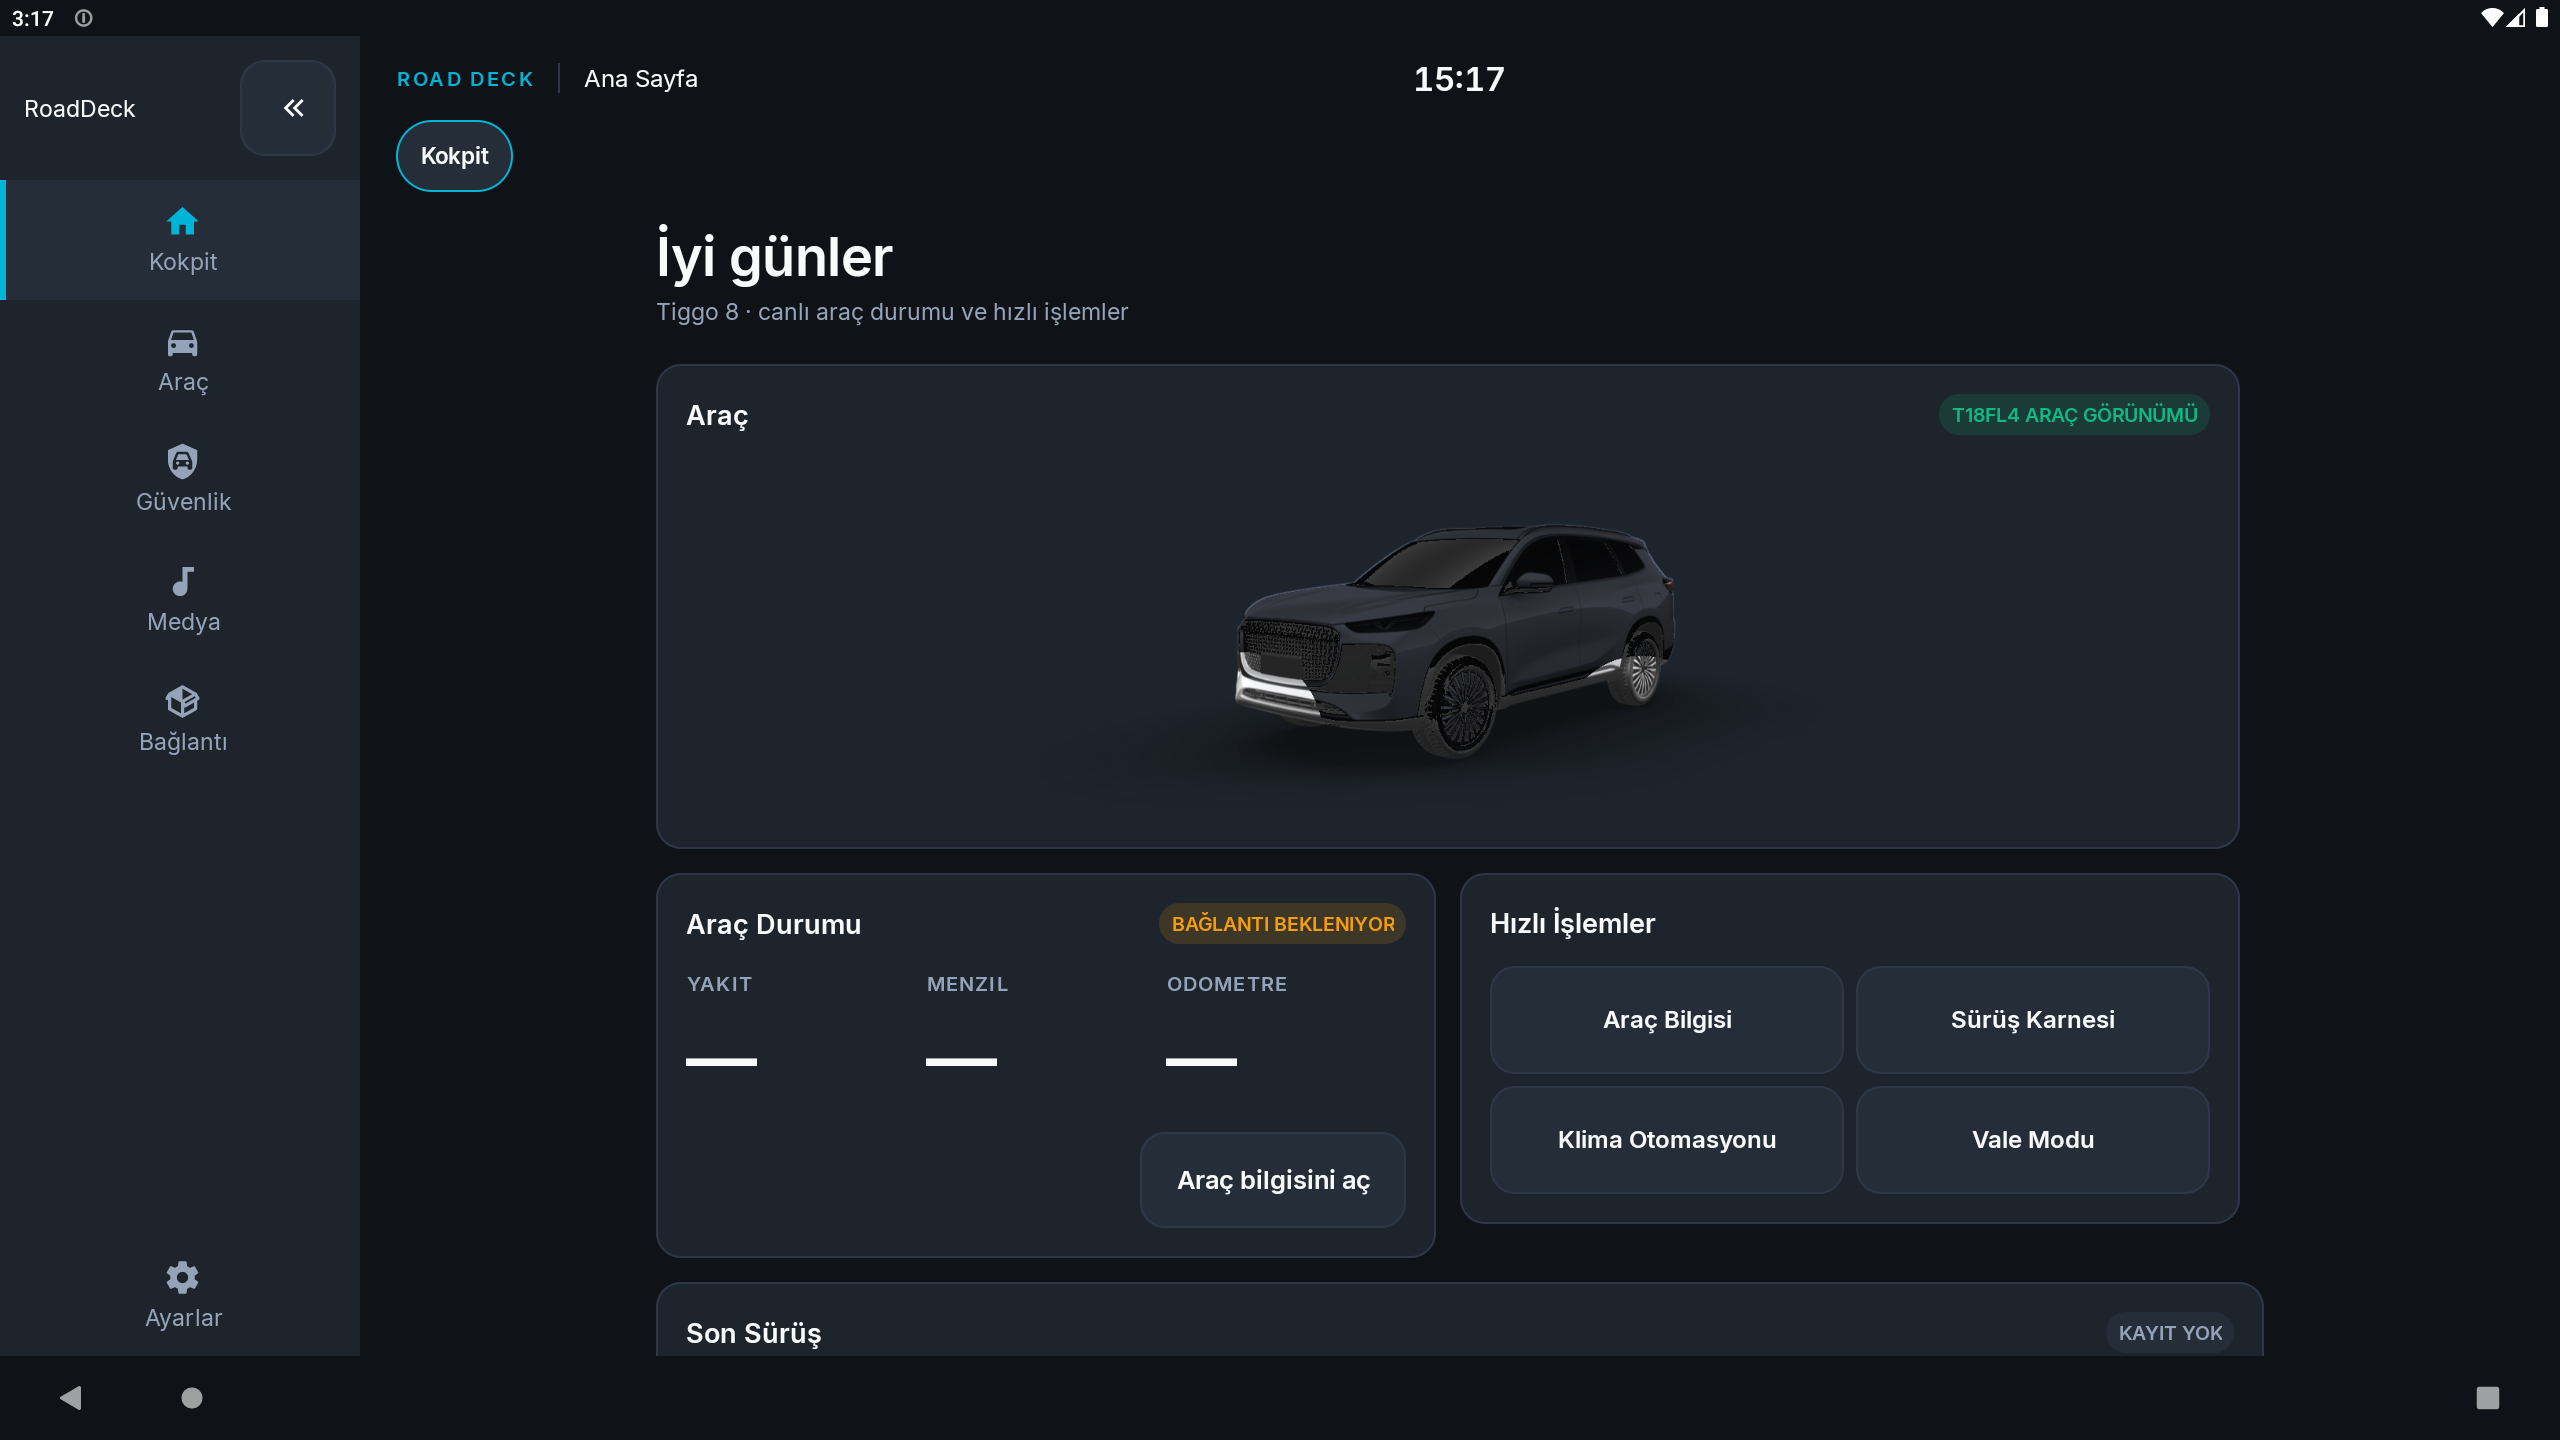
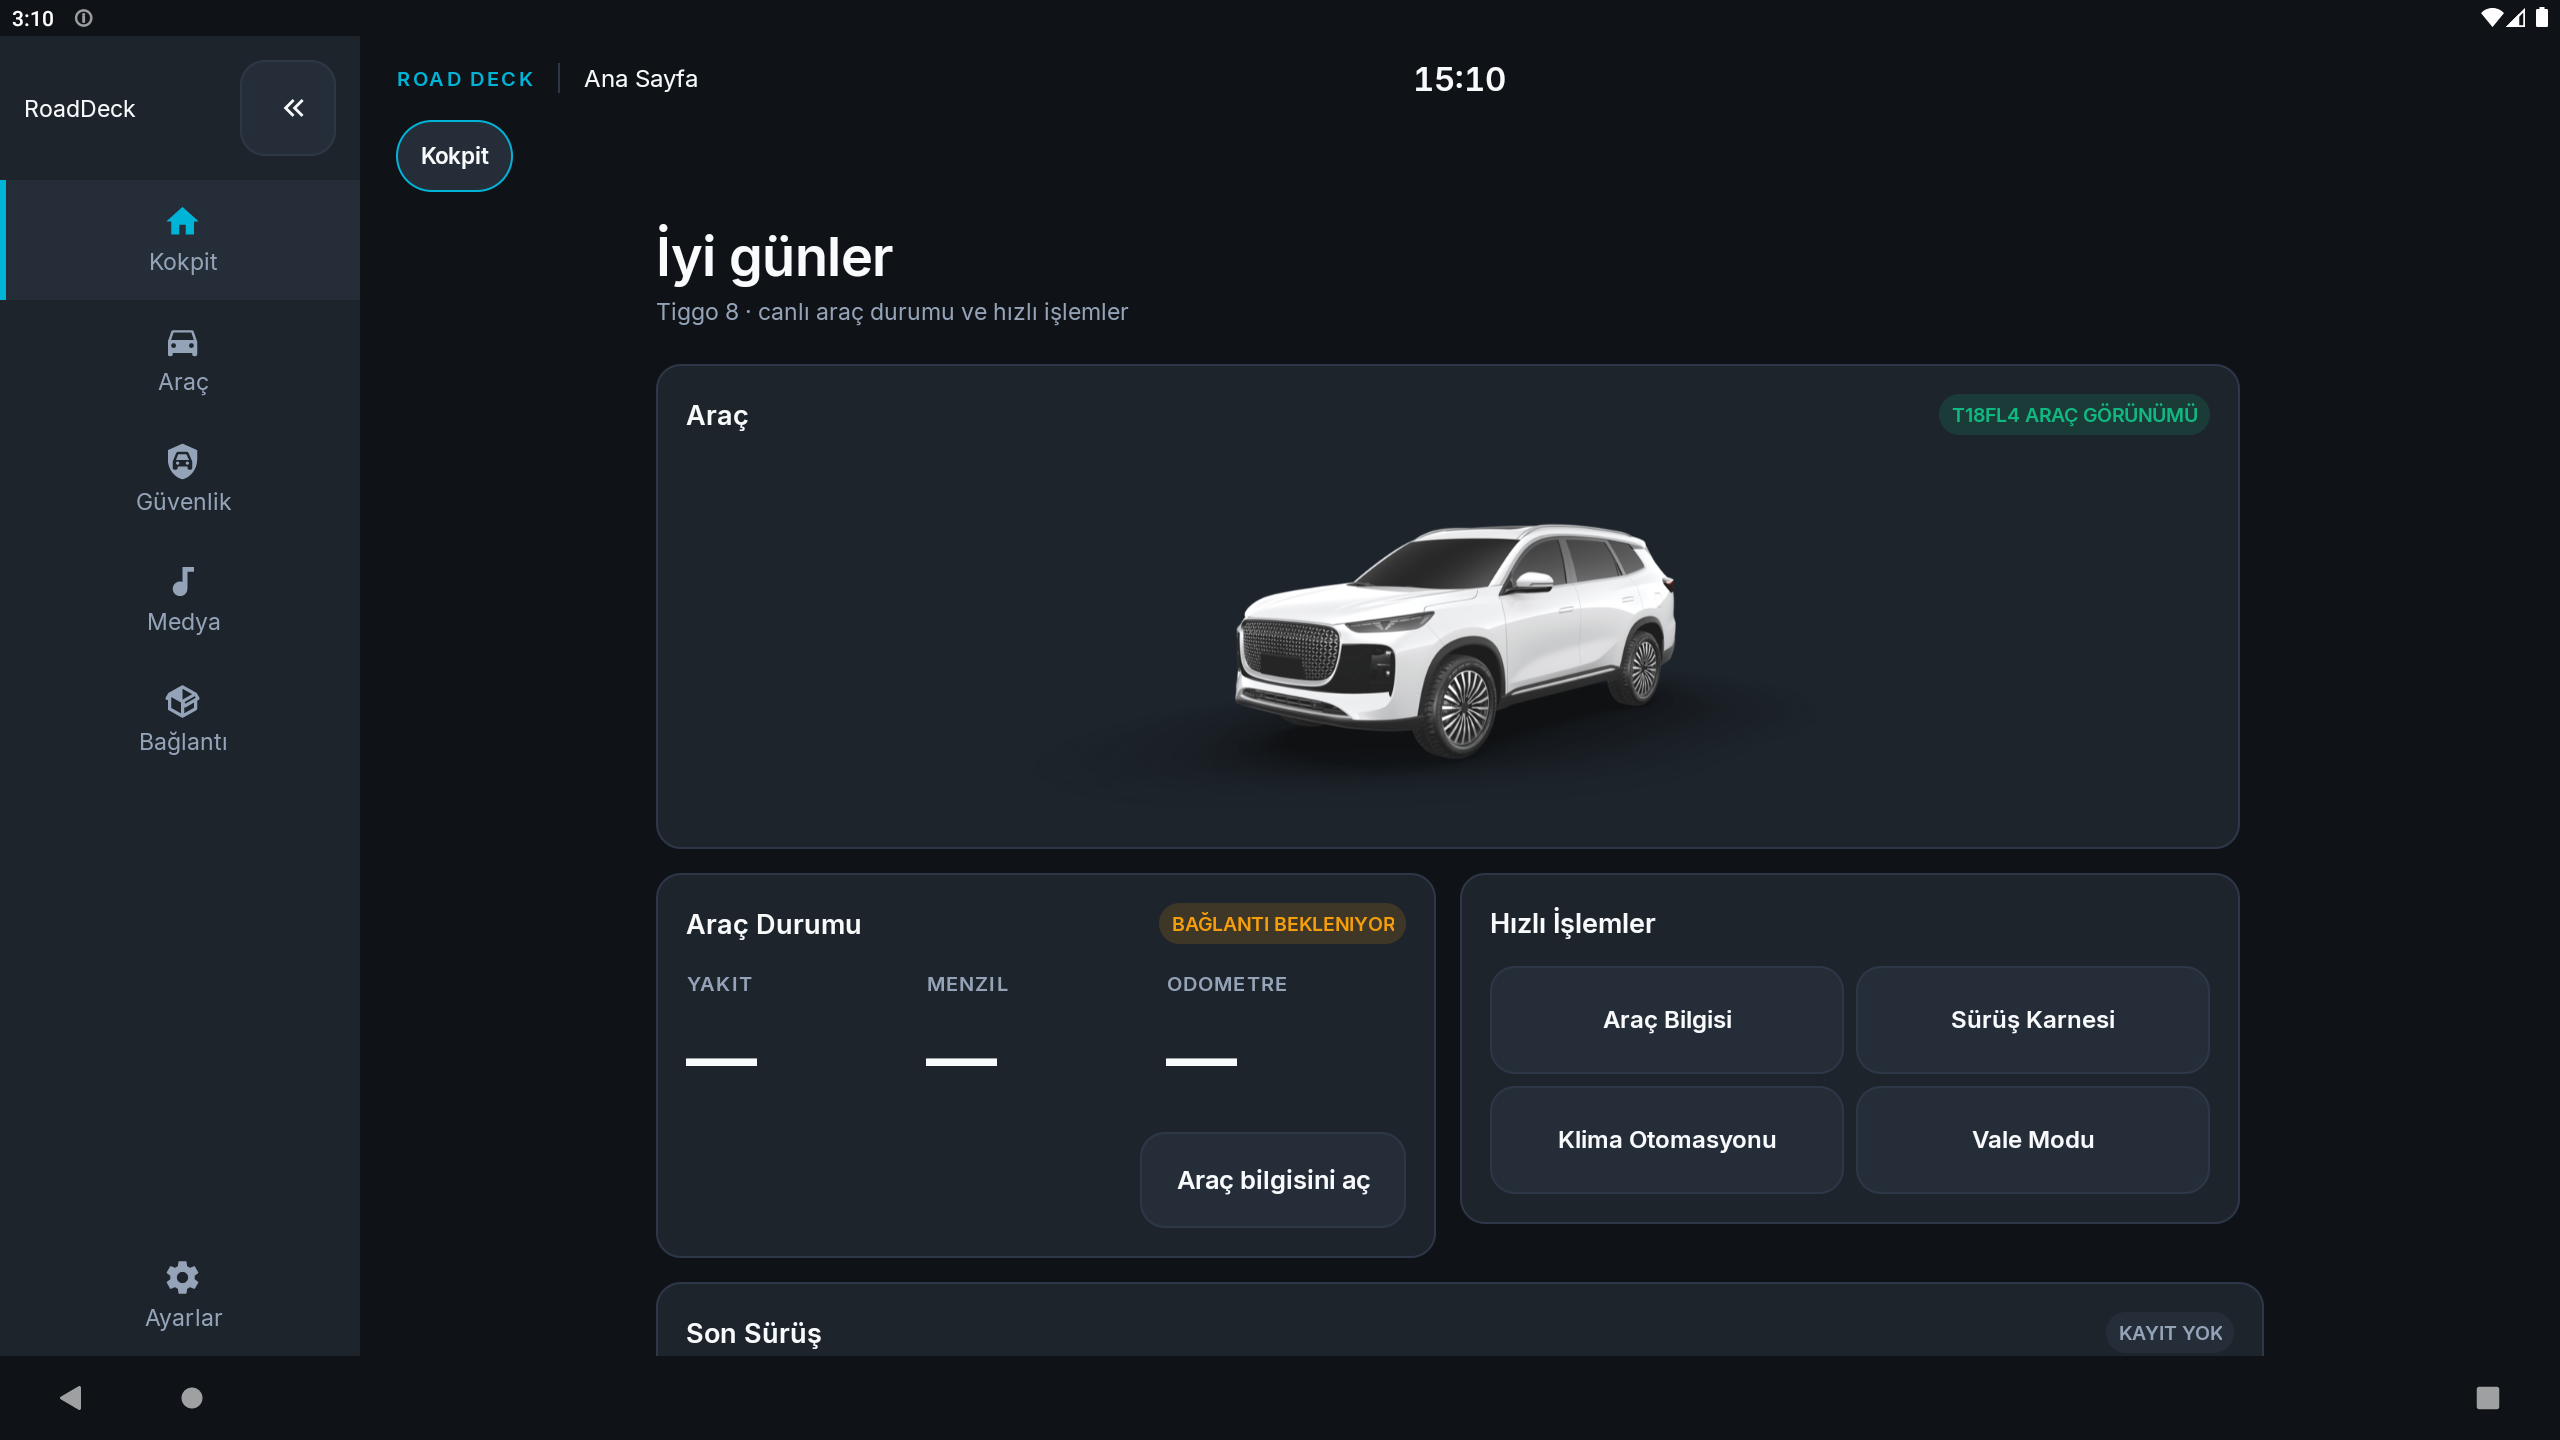
Revert "feat: T18FL4 arac görseli siyah gövde"
This reverts commit 2151f26663785232158d3782a9564061f5e7ea1a.

Changed region(s): [[0.4688, 0.3438, 0.6562, 0.5312]]

diff --git a/app/src/main/java/com/mapcontrol/ui/builder/HomeTabBuilder.java b/app/src/main/java/com/mapcontrol/ui/builder/HomeTabBuilder.java
@@ -147,7 +147,7 @@ public class HomeTabBuilder implements VehicleMetricsRepository.Listener {
                 context.getString(R.string.ck_home_vehicle_visual)).span(8);
         card.status(StatusBadge.nominal(context, context.getString(R.string.ck_home_vehicle_visual_hint)));
         vehicleView = new android.widget.ImageView(context);
-        vehicleView.setImageResource(R.drawable.t18_vehicle_black);
+        vehicleView.setImageResource(R.drawable.t18_vehicle);
         vehicleView.setScaleType(android.widget.ImageView.ScaleType.FIT_CENTER);
         vehicleView.setContentDescription(context.getString(R.string.ck_home_vehicle_visual_hint));
         vehicleView.setAlpha(0f);
